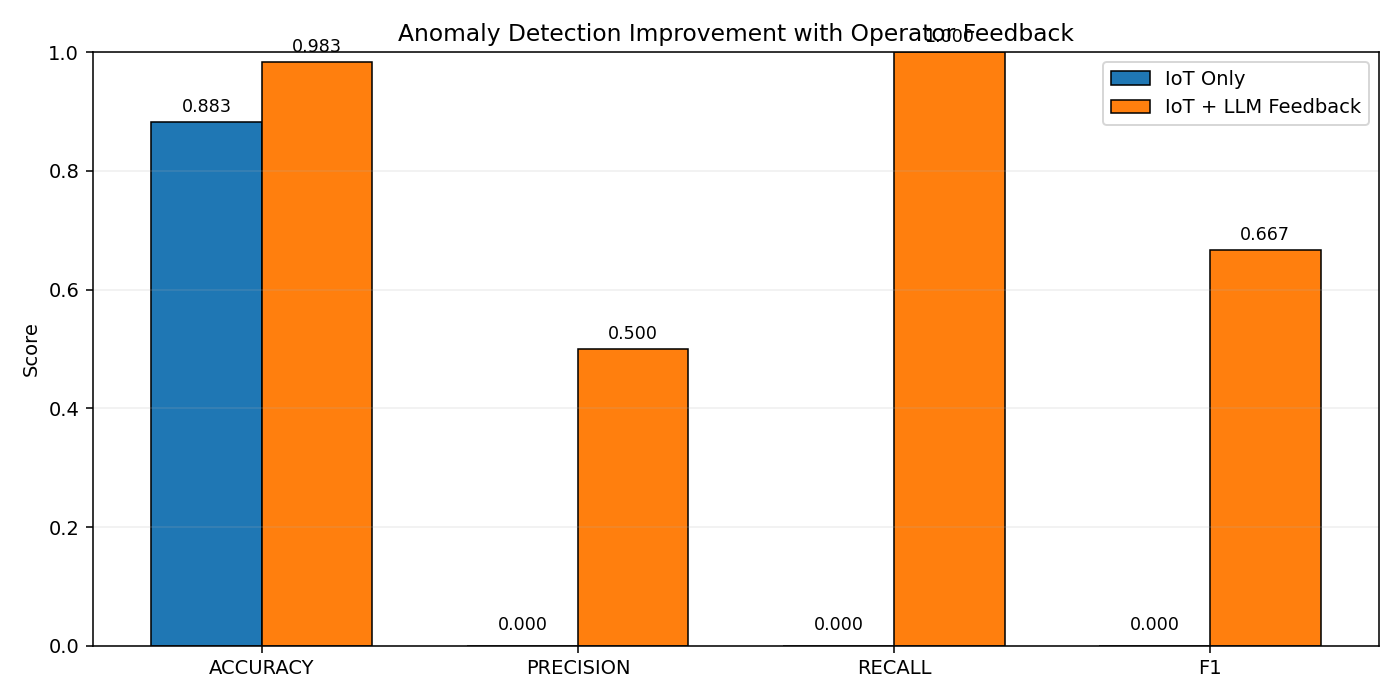
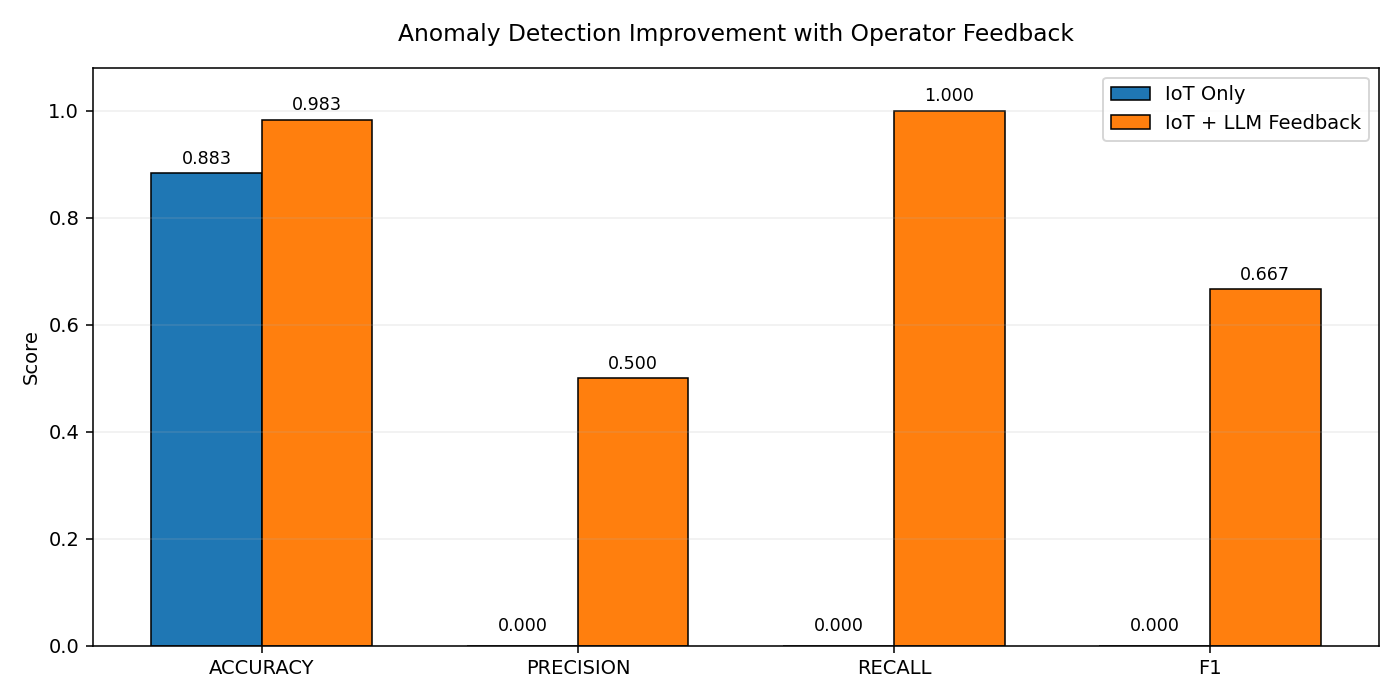
Polish chart layout to avoid top label/title overlap

diff --git a/src/iot_anomaly_guidance.py b/src/iot_anomaly_guidance.py
@@ -519,9 +519,9 @@ def plot_results(metrics_baseline: Dict[str, float], metrics_fused: Dict[str, fl
         linewidth=0.8,
     )
     ax.set_xticks(x, [lbl.upper() for lbl in labels])
-    ax.set_ylim(0, 1)
+    ax.set_ylim(0, 1.08)
     ax.set_ylabel("Score")
-    ax.set_title("Anomaly Detection Improvement with Operator Feedback")
+    ax.set_title("Anomaly Detection Improvement with Operator Feedback", pad=14)
     ax.grid(axis="y", alpha=0.2)
     ax.legend()
 
@@ -530,7 +530,7 @@ def plot_results(metrics_baseline: Dict[str, float], metrics_fused: Dict[str, fl
         h = float(bar.get_height())
         ax.text(
             bar.get_x() + bar.get_width() / 2,
-            max(h, 0.01) + 0.01,
+            min(max(h, 0.01) + 0.01, 1.04),
             f"{h:.3f}",
             ha="center",
             va="bottom",
